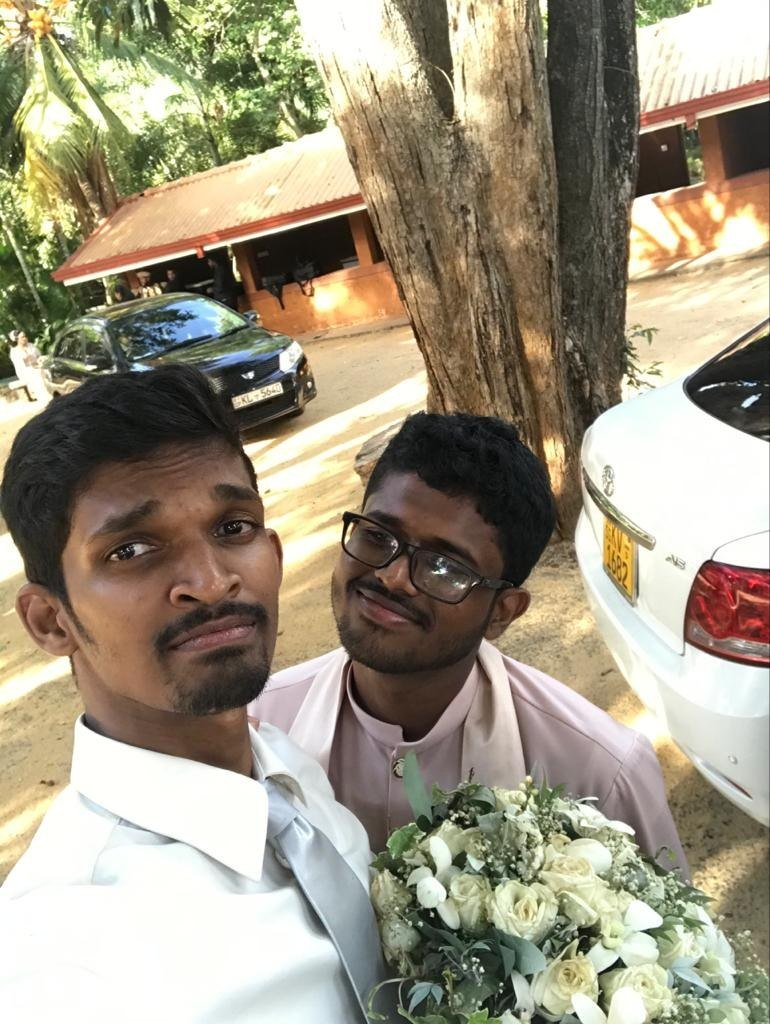
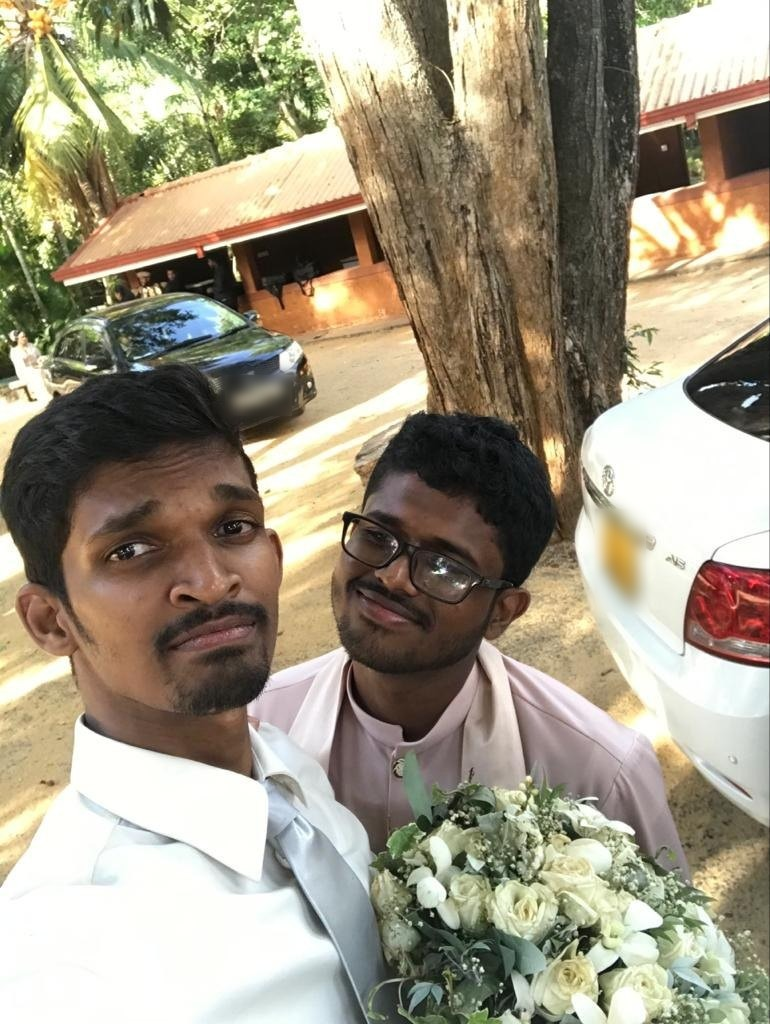
Fix pre-merge audit findings for the site and deploy setup
- Scroll-driven animations: move animation-timeline/animation-range into
  their own, more specific rules in Career, Calendar, Sponsors and TechRegs.
  Lightning CSS folded them into an animation shorthand that browsers
  reject, so 7 effects never ran (the calendar progress bar sat at 12%).
- Photos: Gallery reads image sizes from an untracked clone, so Astro no
  longer ships the 15 untouched gallery originals next to the optimised
  copies; a build:done guard removes any unreferenced original that slips
  through. Blur a printed name on a wedding card (wedding-laughs) and two
  number plates (wedding-bouquet).
- Claude Code permissions: ask before every publishing form (deploy,
  versions deploy/upload, triggers deploy, rollback, delete, secret,
  pages) via npx, a global wrangler or other launchers; README matches.
- Docs: the Node >= 22.12 floor comes from package.json engines.
- tools/shoot.mjs writes to the OS temp dir by default; ignore /shots/.

Claude-Session: https://claude.ai/code/session_01VYes3tgvQwbUgSfR38TUf8

Changed region(s): [[0.7481, 0.4688, 0.8416, 0.5938], [0.2805, 0.3438, 0.4052, 0.4062]]

diff --git a/README.md b/README.md
@@ -43,7 +43,9 @@ Worker with static assets (`wrangler.jsonc`). It binds the custom domain `bilal.
 (the `tracex.tech` zone must be active in the **same** Cloudflare account — Cloudflare then
 creates the DNS record and certificate) and also serves on `bilal-racing.<account>.workers.dev`.
 
-Requirements: Node ≥ 22.12 (`nvm use` reads `.nvmrc`) and a Cloudflare account that owns `tracex.tech`.
+Requirements: Node ≥ 22.12 (`package.json` engines; `.nvmrc` says `22`, so `nvm install` gets the
+latest 22.x — check `node -v` if `nvm use` picks an older one) and a Cloudflare account that owns
+`tracex.tech`.
 
 ```bash
 git fetch origin && git switch main && git pull
@@ -67,8 +69,10 @@ Roll back: `npx wrangler deployments list`, then `npx wrangler rollback <version
 Using Claude Code locally? The repo ships a `deploy` skill (`.claude/skills/deploy/`) with this
 exact procedure and a project `.claude/settings.json` that pre-approves build, check,
 `npm run deploy:dry`, `whoami`, `deployments`/`versions list` and the exact live-check `curl`s,
-and asks before any `npm run deploy`, `wrangler deploy` / `versions deploy` / `triggers deploy`,
-`rollback` or `delete`. Personal overrides go in `.claude/settings.local.json` (git-ignored).
+and forces a prompt for the publishing commands (`npm run deploy`, `wrangler deploy` /
+`versions deploy|upload` / `triggers deploy` / `rollback` / `delete` / `secret` / `pages`, via
+`npx` or a global `wrangler`). Anything else that isn't pre-approved still prompts in the default
+permission mode. Personal overrides go in `.claude/settings.local.json` (git-ignored).
 
 Prefer Git-connected auto-deploys instead? Cloudflare dashboard → Workers & Pages → Import a
 repository → `trace-x-technologies/bilal-racing`, build `npm run build`, deploy

diff --git a/CLAUDE.md b/CLAUDE.md
@@ -18,7 +18,7 @@ Pronouns: the owner is referred to as "he"; for everyone else avoid gendered pro
 - Deploy: Cloudflare Workers static assets (`wrangler.jsonc`), domain `bilal.tracex.tech`, via the
   Wrangler CLI — follow the `deploy` skill (`.claude/skills/deploy/SKILL.md`). `npm run deploy:dry`
   validates without publishing; `npm run deploy` publishes (always confirm with the user first).
-- Node ≥ 22.12 (`.nvmrc`). `npm ci` · `npm run build` · `npx astro check` · `npx astro preview --port <port>`
+- Node ≥ 22.12 (`package.json` engines; `.nvmrc` = 22). `npm ci` · `npm run build` · `npx astro check` · `npx astro preview --port <port>`
 - Visual QA: `node tools/shoot.mjs --url http://localhost:<port>/ --selector "#car" --scroll 0.5 --out <dir>/car`
   (viewports desktop,mobile by default; prints console/page errors; exit 2 if errors). Locally it
   needs `npx playwright-core install chromium` once, or `CHROME_PATH` pointing at Chrome.

diff --git a/.claude/skills/deploy/SKILL.md b/.claude/skills/deploy/SKILL.md
@@ -12,7 +12,7 @@ in the repo. Production = the `main` branch.
 ## 0. Preconditions (check, don't assume)
 
 ```bash
-node -v                      # must be >= 22.12 (see .nvmrc / package.json engines)
+node -v                      # must be >= 22.12 (package.json engines); .nvmrc only pins major 22
 git status --short           # clean tree
 git rev-parse --abbrev-ref HEAD   # normally `main`; say so if deploying another branch
 npm ci                       # exact lockfile install
